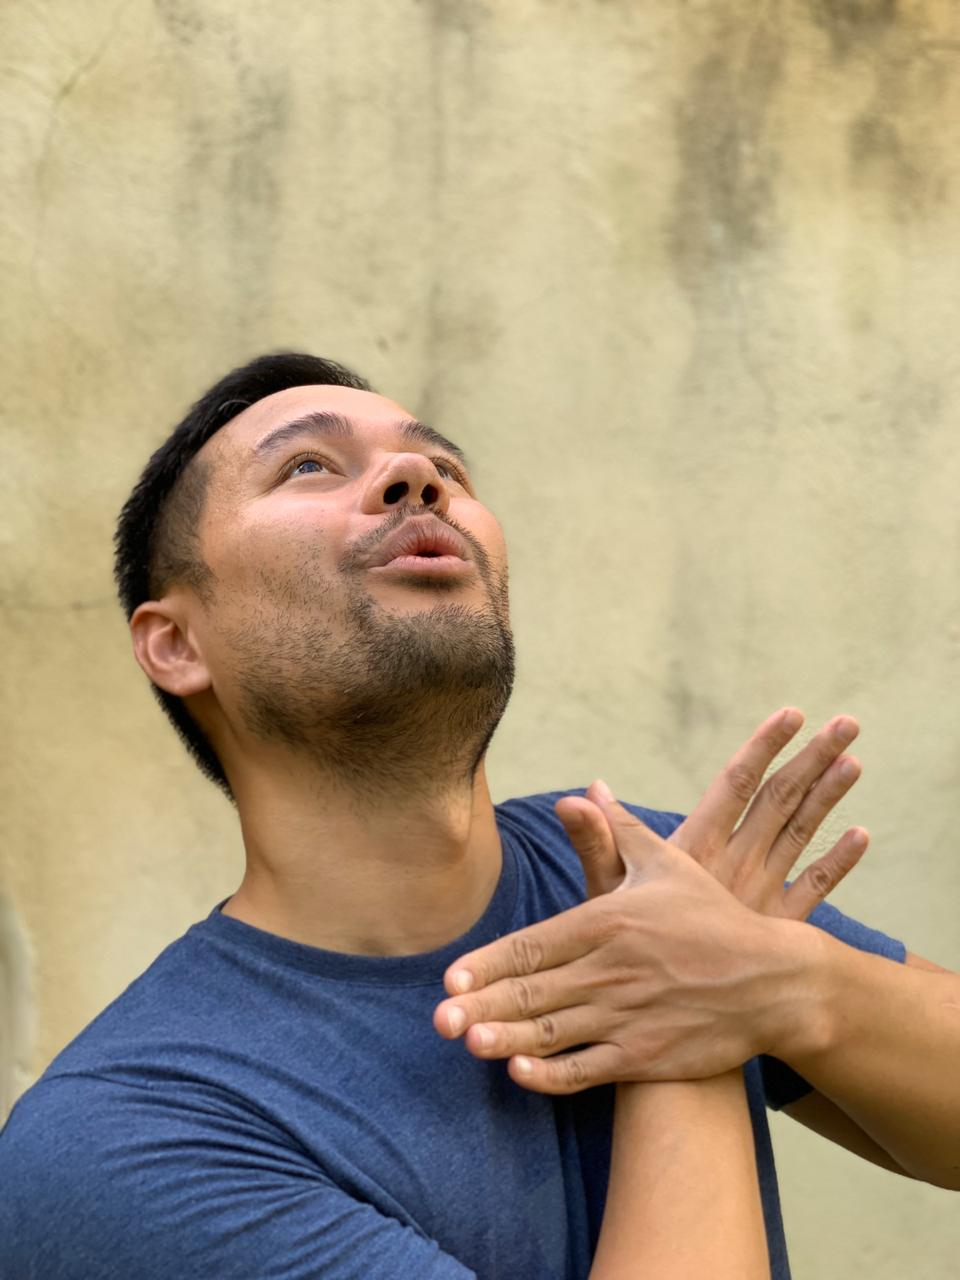
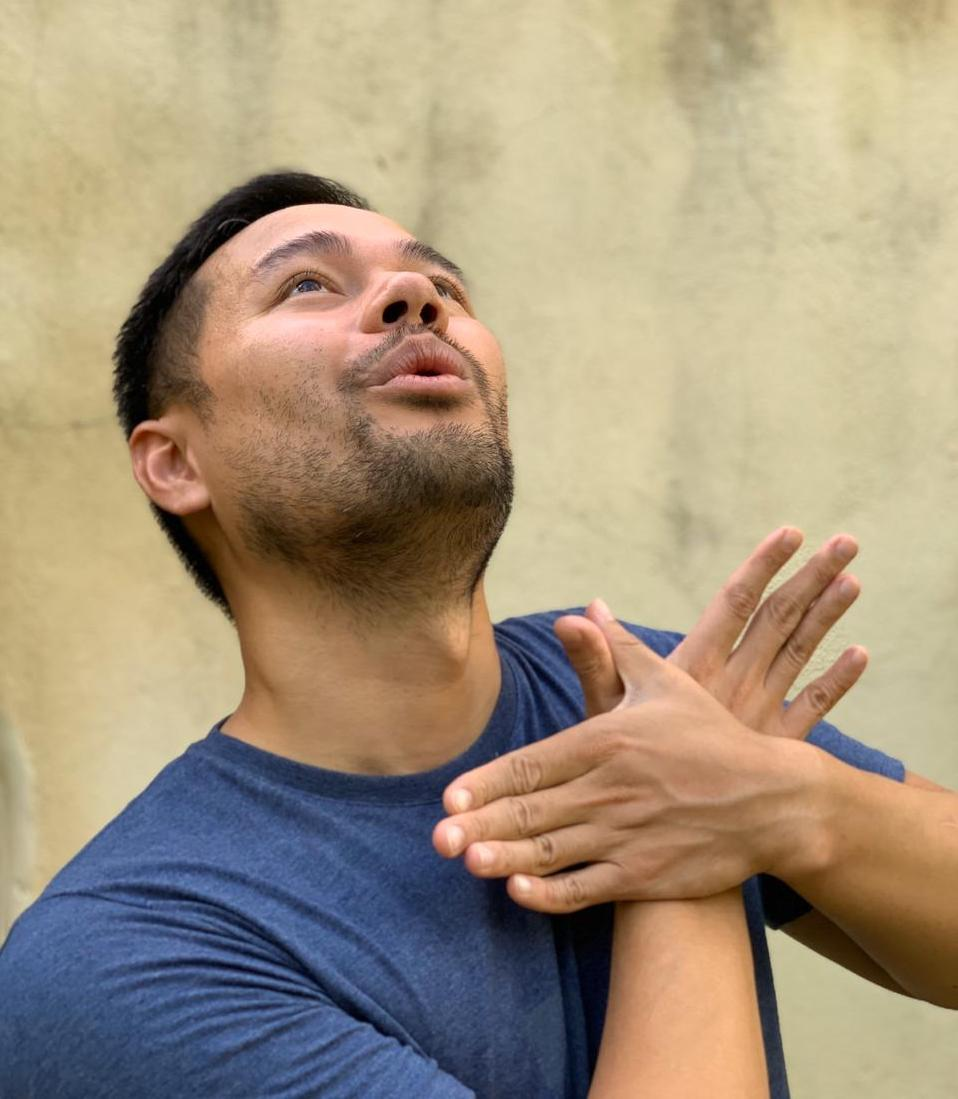
image resized

diff --git a/components/teams/Team.js b/components/teams/Team.js
@@ -4,6 +4,7 @@ import TeamItem from './TeamItem';
 export const Team = () => {
   const teamMembers = [
     {
+      id: 'amos',
       name: 'Amos Njoroge',
       title: 'QA engineer',
       description: 'Keeps our apps healthy and bug free 🐛',
@@ -11,6 +12,7 @@ export const Team = () => {
       imageFun: '/assets/images/team_photos/amos_fun.JPG'
     },
     {
+      id: 'andrew',
       name: 'Andrew Pham',
       title: 'Co-founder and CEO',
       description: 'Chief dreamer helping to tame our products',
@@ -18,6 +20,7 @@ export const Team = () => {
       imageFun: '/assets/images/team_photos/andrew_fun.JPG'
     },
     {
+      id: 'henry',
       name: 'Henry Ohanga',
       title: 'Engineer',
       description: 'Backend engineer/dev ops ninja who keeps our apps in shape',
@@ -25,6 +28,7 @@ export const Team = () => {
       imageFun: '/assets/images/team_photos/henry_fun.JPG'
     },
     {
+      id: 'ivy',
       name: 'Ivy Mutiso',
       title: 'Engineer',
       description:
@@ -33,6 +37,7 @@ export const Team = () => {
       imageFun: '/assets/images/team_photos/ivy_fun.JPG'
     },
     {
+      id: 'ninette',
       name: 'Ninette Adhikari',
       title: 'Product manager',
       description: 'Product lead gone developer helping to bridge the gap',
@@ -40,14 +45,16 @@ export const Team = () => {
       imageFun: '/assets/images/team_photos/ninette_fun.JPG'
     },
     {
+      id: 'peter',
       name: 'Peter Odeny',
       title: 'Lead Engineer',
       description:
-        'Lead engineer with a talent for working across the stack and making sure the engineers are well caffeinated',
+        'Lead engineer working across the stack and making sure the engineers are well caffeinated',
       imageFormal: '/assets/images/team_photos/peter_formal.JPG',
       imageFun: '/assets/images/team_photos/peter_fun.JPG'
     },
     {
+      id: 'william',
       name: 'William Muli',
       title: 'Engineer',
       description: 'Frontend engineer helping to make our apps speak wonders',

diff --git a/public/assets/theme/css/custom_style.css b/public/assets/theme/css/custom_style.css
@@ -376,11 +376,10 @@ p {
 
 /* Teams page */
 .img-team {
-  height: 9rem;
-  width: 9rem;
+  height: 10.5rem;
+  width: 10.5rem;
   border-radius: 50%;
   object-fit: cover;
-  /* object-position: top; */
   box-shadow: 0 4px 8px 0 rgba(115, 117, 129, 0.1),
     0 6px 20px 0 rgba(115, 117, 129, 0.1);
 }
@@ -394,17 +393,60 @@ p {
 }
 
 .team-page {
-  padding-top: 7rem;
+  padding-top: 9rem;
   text-align: center;
   color: #737581;
 }
 
 .member-container {
   width: 20rem;
-  height: 20rem;
+  height: 21rem;
   margin: 2rem 1rem;
+  display: flex;
+  flex-direction: column;
+  justify-content: center;
+  align-items: center;
 }
 
 .team-text {
   padding-top: 2rem;
 }
+
+.amos {
+  object-position: 50% 30%;
+}
+
+.andrew {
+  object-position: top;
+}
+
+.henry {
+  object-position: 50% 30%;
+}
+
+.ivy {
+  object-position: 50% 24%;
+}
+
+.ninette {
+  object-position: 50% 30%;
+}
+
+.peter {
+  object-position: 50% 30%;
+}
+
+/* .image-container {
+  height: 10.5rem;
+  width: 10.5rem;
+  overflow: hidden;
+  border: 1px solid black;
+  background-color: #ddd;
+  border-radius: 50%;
+}
+.img-team {
+  position: relative;
+  top: -1rem;
+  left: 0rem;
+  width: 10rem;
+} */

diff --git a/components/teams/TeamItem.js b/components/teams/TeamItem.js
@@ -1,15 +1,17 @@
 import React from 'react';
 
-const TeamItem = ({ name, title, description, imageFormal, imageFun }) => {
+const TeamItem = ({ id, name, title, description, imageFormal, imageFun }) => {
   return (
     <div className='member-container'>
-      <img
-        className='img-team'
-        src={imageFormal}
-        onMouseOver={e => (e.currentTarget.src = `${imageFun}`)}
-        onMouseOut={e => (e.currentTarget.src = `${imageFormal}`)}
-        alt='team photo'
-      />
+      <div className='image-container'>
+        <img
+          className={`img-team ${id}`}
+          src={imageFormal}
+          onMouseOver={e => (e.currentTarget.src = `${imageFun}`)}
+          onMouseOut={e => (e.currentTarget.src = `${imageFormal}`)}
+          alt='team photo'
+        />
+      </div>
       <div className='team-text'>
         <h4 className='display-4'>
           <strong>{name}</strong>
